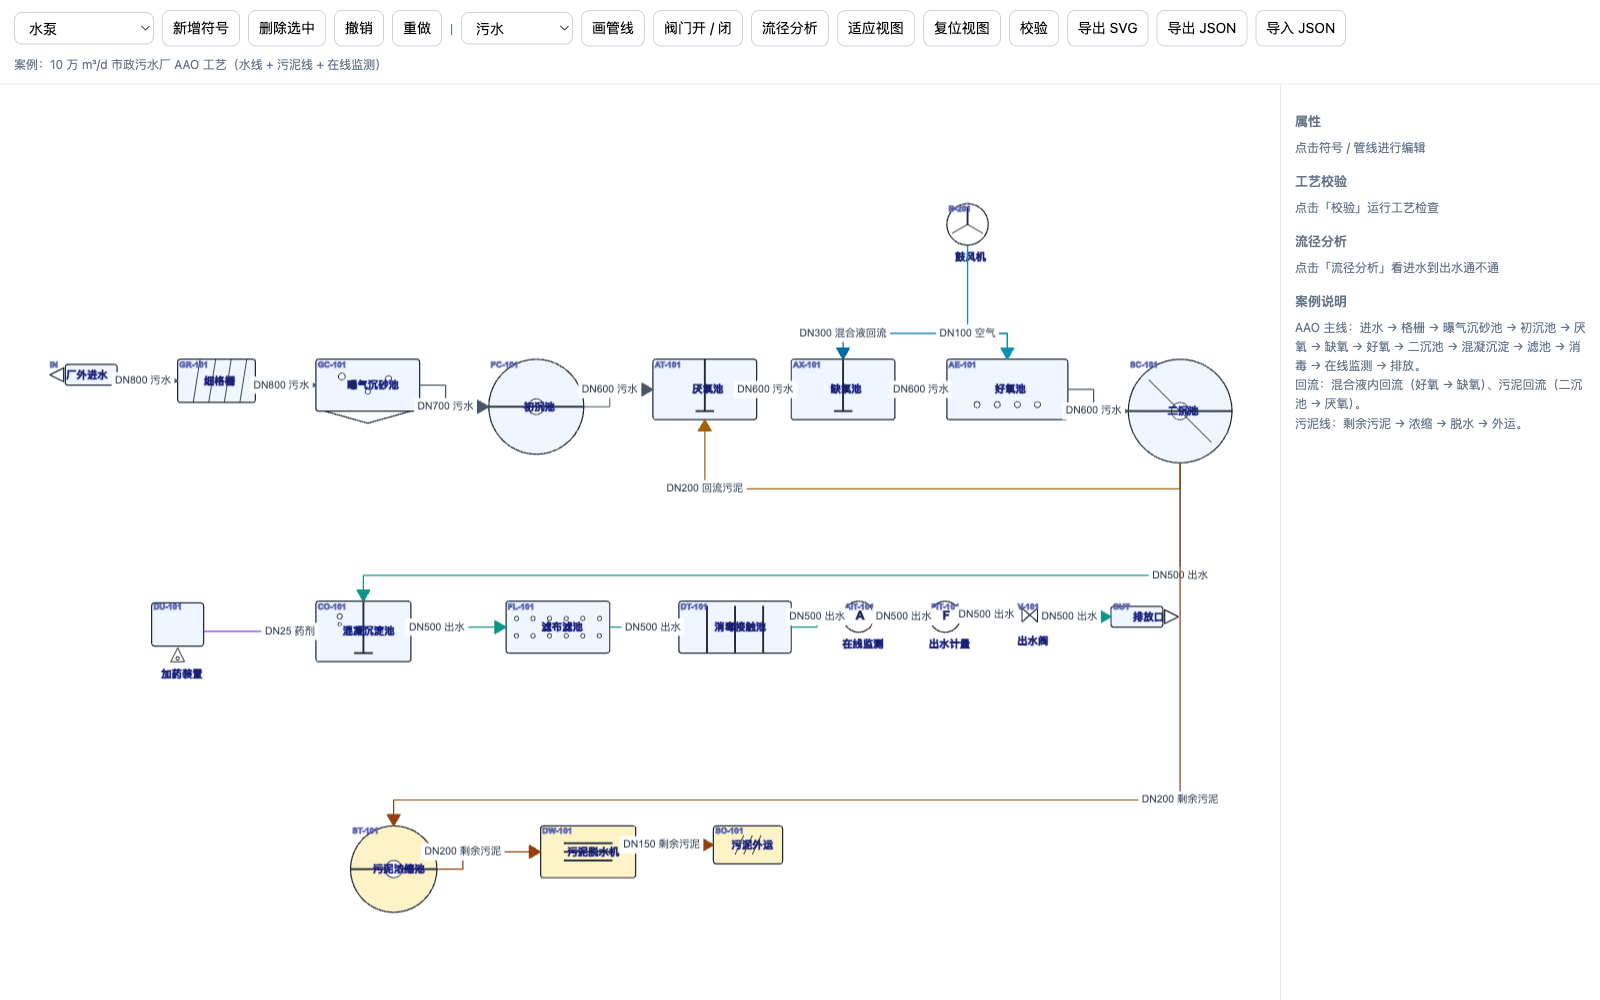
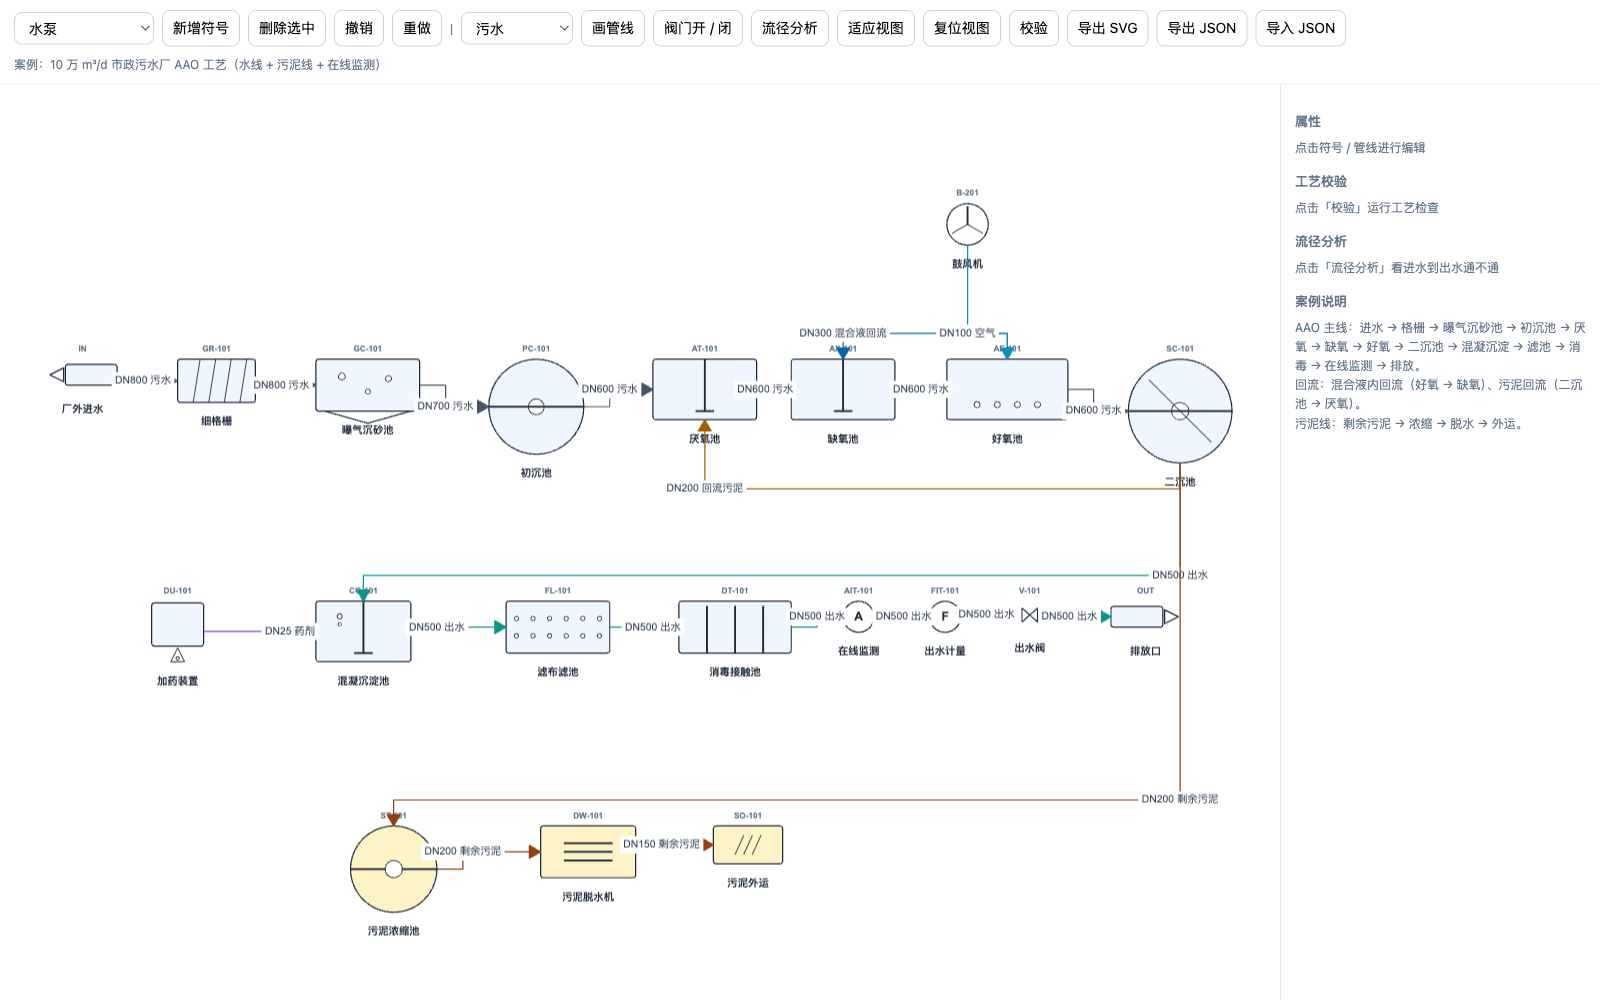
fix(water): 文字排版统一（位号在上 / 名称在下），修符号内的交叠
- 文字改用「显式文字盒 + textAlign/textBaseline 居中」（与电力域包同一套写法）：
  之前不给盒、靠自己估宽居中，实测又偏又挤
- 位号移到符号上方、名称移到符号下方，图形内部只留符号自身的构成要素
  （流量计的 F、在线仪表的 A 等），彻底消除"字压在图上"
- 沉砂池集砂斗改浅，不再顶到名称
- 新增 examples/water-symbols.html：21 种符号一页体检，可导出 SVG

diff --git a/src/water/water_shapes.ts b/src/water/water_shapes.ts
@@ -397,11 +397,27 @@ export default class WaterSymbol extends ICEGroup {
         break;
       case 'flowMeter':
         this.__circle(0, 0, Math.min(w, h) / 2, 'none', strokeStyle, lw, baseZ);
-        this.__text(0, 0, 'F', { fontSize: WATER_STYLE.letterFontSize }, strokeStyle, baseZ);
+        this.__text(
+          cx - 7,
+          cy - WATER_STYLE.letterFontSize * 0.7,
+          14,
+          'F',
+          WATER_STYLE.letterFontSize,
+          strokeStyle,
+          'center'
+        );
         break;
       case 'analyzer':
         this.__circle(0, 0, Math.min(w, h) / 2, 'none', strokeStyle, lw, baseZ);
-        this.__text(0, 0, 'A', { fontSize: WATER_STYLE.letterFontSize }, strokeStyle, baseZ);
+        this.__text(
+          cx - 7,
+          cy - WATER_STYLE.letterFontSize * 0.7,
+          14,
+          'A',
+          WATER_STYLE.letterFontSize,
+          strokeStyle,
+          'center'
+        );
         break;
       case 'inlet':
         // 箭头指向下游
@@ -424,30 +440,28 @@ export default class WaterSymbol extends ICEGroup {
         break;
     }
 
-    // 文字：位号在左上角，名称按形状分组放（矩形/圆形单元放中心，小设备放下方）
+    /**
+     * 文字排版（全库统一，保证不与图形内部元素打架）：
+     * - **位号在上**：符号顶边外侧居中；
+     * - **名称在下**：符号底边外侧居中。
+     * 图形内部只保留符号自身的构成要素（流量计的 F、在线仪表的 A 之类）。
+     */
+    const labelWidth = Math.max(w + 24, 90);
+    const labelLeft = cx - labelWidth / 2;
     if (this.state.tag) {
       this.__text(
-        -cx + 2,
-        -cy + 7,
+        labelLeft,
+        -18,
+        labelWidth,
         String(this.state.tag),
-        { fontSize: WATER_STYLE.tagFontSize, textColor: WATER_STYLE.tagColor },
-        undefined,
-        baseZ + 2,
-        'left'
+        WATER_STYLE.tagFontSize,
+        WATER_STYLE.tagColor,
+        'center'
       );
     }
     const name = String(this.state.name || '');
     if (name) {
-      const inCenter = preset.shape === 'tank' || preset.shape === 'round' || preset.shape === 'boundary';
-      const textY = inCenter ? 0 : cy + 14;
-      this.__text(
-        0,
-        textY,
-        name,
-        { fontSize: WATER_STYLE.nameFontSize, textColor: WATER_STYLE.nameColor },
-        undefined,
-        baseZ + 2
-      );
+      this.__text(labelLeft, h + 14, labelWidth, name, WATER_STYLE.nameFontSize, WATER_STYLE.nameColor, 'center');
     }
   }
 
@@ -564,29 +578,35 @@ export default class WaterSymbol extends ICEGroup {
     );
   }
 
+  /**
+   * 文本部件：**显式给文字盒（width/height）+ textAlign/textBaseline 居中**。
+   *
+   * 这是电力域包验证过的写法：不给盒、靠自己估算宽度去挪 left，实测会又偏又挤。
+   */
   private __text(
-    cx: number,
-    cy: number,
+    boxLeft: number,
+    boxTop: number,
+    boxWidth: number,
     text: string,
-    style: any,
-    textColor: string | undefined,
-    zIndex: number,
-    align: 'center' | 'left' = 'center'
+    fontSize: number,
+    color: string,
+    textAlign: 'left' | 'center' = 'center'
   ): any {
-    const fontSize = style.fontSize || WATER_STYLE.nameFontSize;
-    const component: any = new ICEText({
-      left: this.__originX + cx,
-      top: this.__originY + cy - fontSize / 2,
-      text,
-      zIndex,
-      interactive: false,
-      style: { fontSize, fillStyle: style.textColor || textColor || WATER_STYLE.nameColor, textAlign: 'left' },
-    });
-    // 居中用**实测宽度**（构造时已经量过），不做宽度估算
-    if (align === 'center') {
-      component.setState({ left: this.__originX + cx - component.state.width / 2 });
-    }
-    return this.__add('text:' + text, component);
+    const boxHeight = Math.round(fontSize * 1.4);
+    return this.__add(
+      'text:' + text,
+      new ICEText({
+        left: boxLeft,
+        top: boxTop,
+        width: boxWidth,
+        height: boxHeight,
+        text,
+        stroke: false,
+        interactive: false,
+        zIndex: (this.state.zIndex || 0) + 4,
+        style: { fontSize, fillStyle: color, textAlign, textBaseline: 'middle' },
+      })
+    );
   }
 
   private __add(role: string, component: any): any {

diff --git a/examples/water-symbols.html b/examples/water-symbols.html
@@ -1,0 +1,93 @@
+<!DOCTYPE html>
+
+<html lang="en">
+  <meta charset="utf-8" />
+  <title>IED-Water-symbols</title>
+  <style>
+    body { margin: 0; font: 14px/1.6 -apple-system, BlinkMacSystemFont, "Segoe UI", sans-serif; background: #f8fafc; color: #0f172a; }
+    .toolbar { display: flex; gap: 8px; align-items: center; padding: 10px 14px; border-bottom: 1px solid #e2e8f0; background: #fff; }
+    button { padding: 6px 10px; border: 1px solid #cbd5e1; border-radius: 8px; background: #fff; font: inherit; }
+    .hint { color: #64748b; font-size: 12px; }
+    .wrap { padding: 10px; background: #fff; }
+    canvas { display: block; }
+  </style>
+  <body>
+    <div class="toolbar">
+      <button id="btn-export">导出 SVG</button>
+      <button id="btn-fit">适应视图</button>
+      <span class="hint">
+        符号图例：每格按「位号在上、名称在下、图形居中」排。网格线是排版参考，不属于符号本身。
+      </span>
+    </div>
+    <div class="wrap"><canvas id="canvas-1" width="1520" height="1180"></canvas></div>
+
+    <script src="../node_modules/ice-render/dist/index.umd.js"></script>
+    <script src="../dist/index.umd.js"></script>
+    <script type="text/javascript">
+      const { ICE, WaterProcessDesigner, WATER_SYMBOL_PRESETS, ICERect, ICEText } = IED;
+      const ice = new ICE().init('canvas-1');
+      const designer = new WaterProcessDesigner(ice);
+      window.__ice = ice;
+      window.__designer = designer;
+
+      const COLUMNS = 5;
+      const CELL_W = 290;
+      const CELL_H = 230;
+      const PAD_X = 20;
+      const PAD_Y = 30;
+
+      const kinds = Object.keys(WATER_SYMBOL_PRESETS);
+      kinds.forEach((kind, index) => {
+        const column = index % COLUMNS;
+        const row = Math.floor(index / COLUMNS);
+        const cellLeft = PAD_X + column * CELL_W;
+        const cellTop = PAD_Y + row * CELL_H;
+
+        // 单元格参考框（不属于符号：导出 SVG 前会删掉）
+        ice.addChild(
+          new ICERect({
+            left: cellLeft,
+            top: cellTop,
+            width: CELL_W - 16,
+            height: CELL_H - 16,
+            radius: 8,
+            interactive: false,
+            style: { fillStyle: '#ffffff', strokeStyle: '#e2e8f0', lineWidth: 1 },
+          })
+        );
+        const caption = new ICEText({
+          left: cellLeft + 12,
+          top: cellTop + 8,
+          text: `${index + 1}. ${kind}`,
+          interactive: false,
+          style: { fontSize: 11, fillStyle: '#94a3b8' },
+        });
+        ice.addChild(caption);
+
+        const preset = WATER_SYMBOL_PRESETS[kind];
+        const symbolLeft = cellLeft + (CELL_W - 16 - preset.width) / 2;
+        const symbolTop = cellTop + 58;
+        designer.createSymbol(kind, {
+          name: preset.label,
+          tag: preset.tag + '-101',
+          left: symbolLeft,
+          top: symbolTop,
+        });
+      });
+      designer.select(null);
+      designer.resetHistory();
+
+      document.getElementById('btn-export').addEventListener('click', () => {
+        // 导出前把「单元格参考框 + 编号」这些辅助件摘掉，只留符号
+        ice.childNodes
+          .slice()
+          .filter((child) => child.constructor.typeId !== 'ice-entity-designer:WaterSymbol')
+          .forEach((child) => ice.removeChild(child));
+        window.__exportedSvg = designer.toSvg({ padding: 16, background: '#ffffff' });
+      });
+      document.getElementById('btn-fit').addEventListener('click', () => designer.fitViewport(20));
+
+      designer.fitViewport(20);
+    </script>
+  </body>
+</html>

diff --git a/README.md b/README.md
@@ -180,6 +180,7 @@ npm run build
 | `examples/statechart-editor.html` | 状态机编辑器：伪状态 / 普通状态 / 复合状态容器、转移标签 `事件 [守卫] / 动作` |
 | `examples/gantt-editor.html` | 甘特编辑器：时间轴与按天吸附、依赖线、自动排程、关键路径、资源冲突校验、矢量导出 |
 | `examples/power-editor.html` | 电力一次系统图（单线图）编辑器：110kV 变电站案例（**110kV 双母线 + 10kV 单母线分段**两级电压，两回进线 / 两台主变 / 母联 / 母线 PT / 4 条 10kV 出线 / 电容器组 / 站用变，共 69 台设备），开关分合、带电分析与色标、五防相关校验 |
+| `examples/water-symbols.html` | 给排水符号图例：21 种符号一页看全（位号在上 / 名称在下 / 图形居中），可导出 SVG 作交底或评审用 |
 | `examples/water-editor.html` | 给水排水工艺流程图：市政污水厂 AAO 工艺（19 个符号 / 21 条管线），介质 + 管径标注、工艺校验（进出线 / 在线监测 / 污泥出路 / 内回流）、流径分析与阀门工况、矢量导出 |
 | `examples/secondary-editor.html` | 电力**二次回路**（简化版）：110kV 线路保护电流回路 —— CT 三个二次绕组 → 三相电流回路（A411/B411/C411 + N411）→ 端子排（201～204）→ 线路保护装置，N 侧接地；二次校验（回路编号 / 三相成组 / 端子号唯一 / 必须接地） |
 | `examples/power-symbols.html` | 电力符号表：23 种一次设备符号（记法对齐 JB/T 5872-1991 与 GB/T 4728.1/3/4/6），可缩放平移、导出 SVG |
